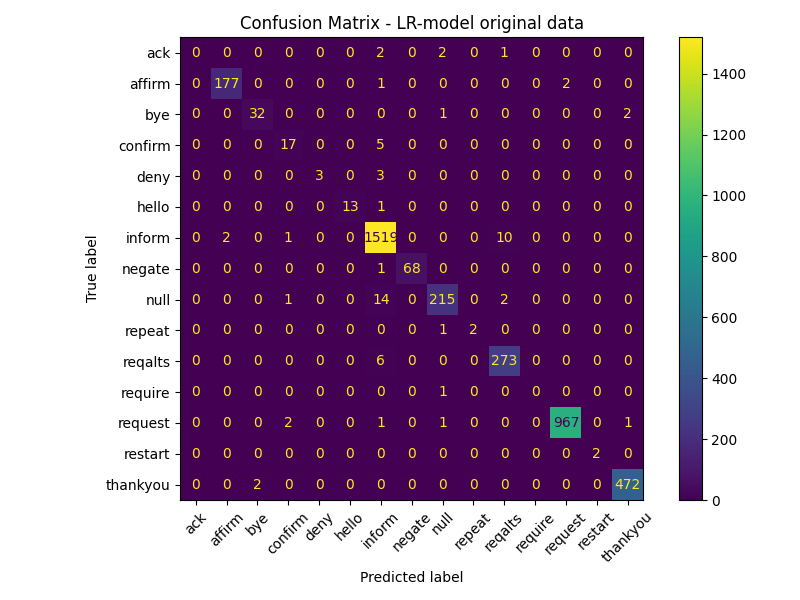
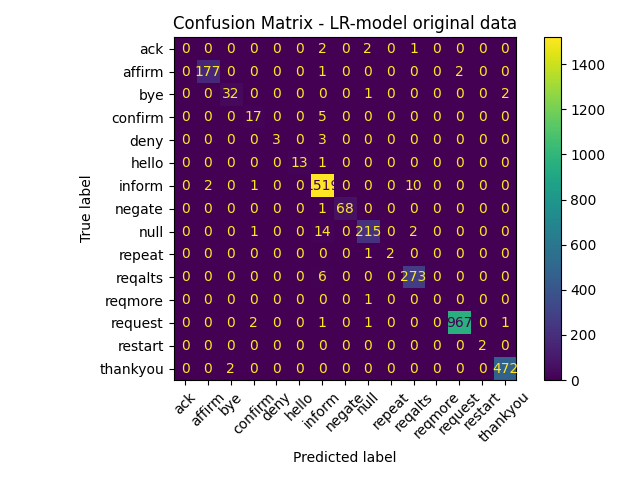
decision matrix is created for all the models now

diff --git a/main.py b/main.py
@@ -172,7 +172,10 @@ def save_confusion_matrix(y_test, y_pred, model_name):
         y_pred: A list of the predicted labels for the test set.
         model_name: A string with the name of the model for evaluation.
     """
-    labels = ["ack", "affirm", "bye", "confirm", "deny", "hello", "inform", "negate", "null", "repeat", "reqalts", "require", "request", "restart", "thankyou"]
+    # labels = ["ack", "affirm", "bye", "confirm", "deny", "hello", "inform", "negate", "null", "repeat", "reqalts", "require", "request", "restart", "thankyou"]
+    
+    # Get the unique labels from the test set and sort to keep labels in the correct order
+    labels = sorted(list(set(y_test)))
 
     cm = confusion_matrix(y_test, y_pred)
     disp = ConfusionMatrixDisplay(confusion_matrix=cm, display_labels=labels)
@@ -208,7 +211,7 @@ def print_metrics(y_test, y_pred, model_name):
     print("\nClassification Report:")
     print(classification_report(y_test, y_pred, zero_division=0))
 
-    # save_confusion_matrix(y_test, y_pred, model_name)
+    save_confusion_matrix(y_test, y_pred, model_name)
 
     # Calculate and print the evaluation metrics
     accuracy = accuracy_score(y_test, y_pred)
@@ -231,14 +234,14 @@ def print_metrics_for_each_model(df, X1_test, y1_test, y2_test, y1_pred_DT, y1_p
         y_test: A list of the actual labels for the test utterances.
     """
     # Make predictions and print metrics for the majority label model
-    print("\nMajority-Label Model - Evaluation Metrics:")
-    y_pred_ml = majority_label_model_predict(df, X1_test)
-    print_metrics(y1_test, y_pred_ml, "Majority-Label Model")
+    # print("\nMajority-Label Model - Evaluation Metrics:")
+    # y_pred_ml = majority_label_model_predict(df, X1_test)
+    # print_metrics(y1_test, y_pred_ml, "Majority-Label Model")
 
-    # Make predictions and print metrics for the rule based model
-    print("\nRule-Based Model - Evaluation Metrics:")
-    y_pred_rb = rule_based_model_predict(X1_test)
-    print_metrics(y1_test, y_pred_rb, "Rule-Based Model")
+    # # Make predictions and print metrics for the rule based model
+    # print("\nRule-Based Model - Evaluation Metrics:")
+    # y_pred_rb = rule_based_model_predict(X1_test)
+    # print_metrics(y1_test, y_pred_rb, "Rule-Based Model")
 
     print("\nDecision-Tree model - Evaluation Metrics:")
     print("\nOriginal data:")
